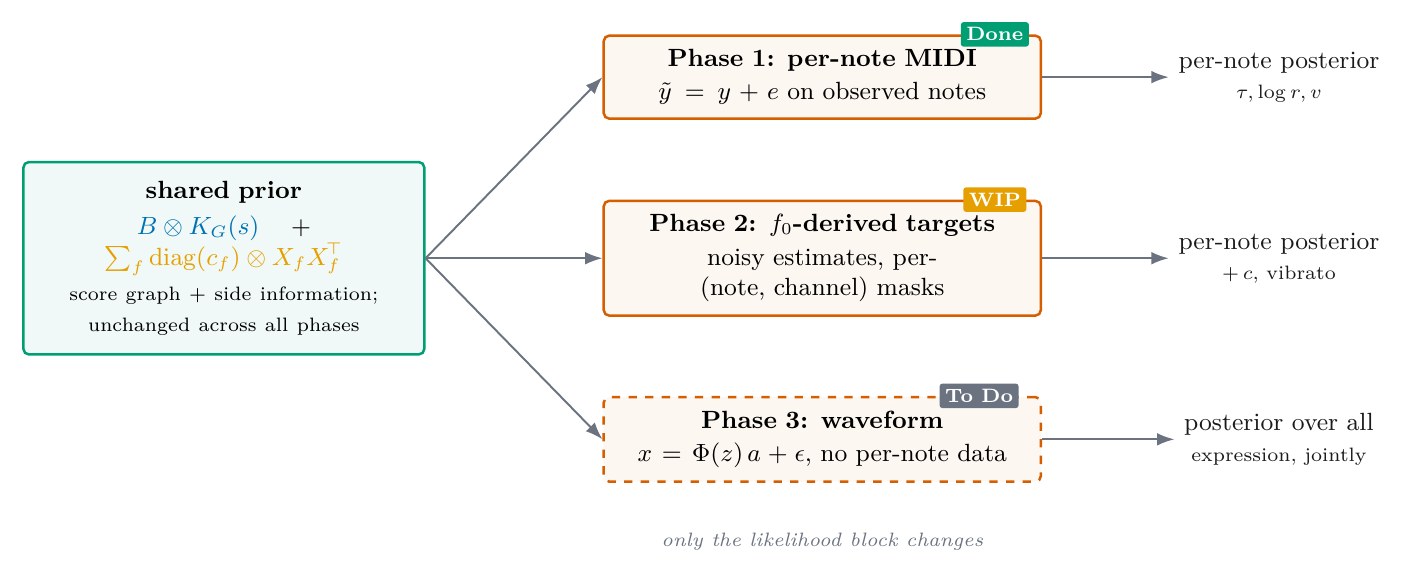
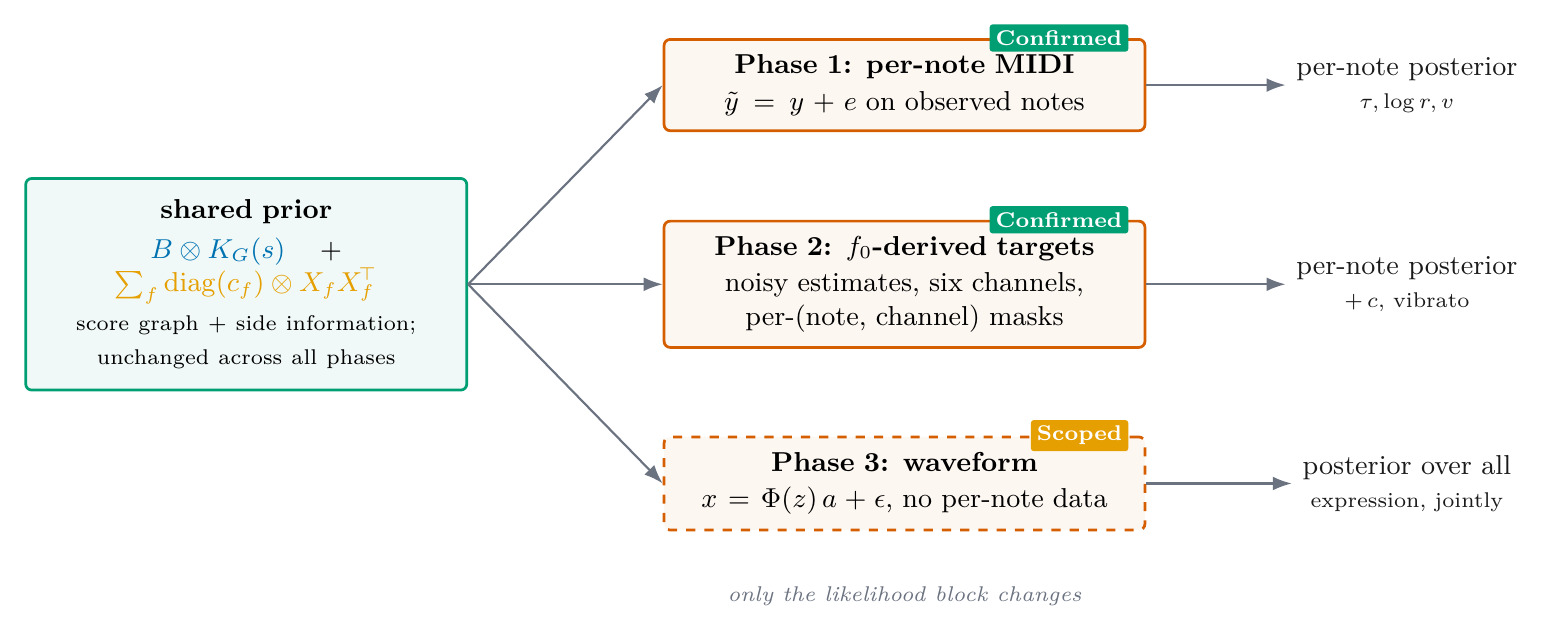
Programme figure: badges updated to the current phase status
Frame 3's figure still wore July's badges (Phase 2 WIP, Phase 3 To Do)
while the deck states Phase 2 confirmed. Now Confirmed / Confirmed /
Scoped, and the Phase-2 block says six channels. Deck rebuilt (24 pp),
PDF copied.

diff --git a/docs/thesis/figures/deck_programme.tex b/docs/thesis/figures/deck_programme.tex
@@ -35,14 +35,14 @@
    $\tilde y = y + e$ on observed notes};
 \node[lik] (l2) at (7.6, 0)
   {\textbf{Phase 2: $f_0$-derived targets}\\[1pt]
-   noisy estimates, per-(note, channel) masks};
+   noisy estimates, six channels,\\ per-(note, channel) masks};
 \node[lik, dashed] (l3) at (7.6, -2.3)
   {\textbf{Phase 3: waveform}\\[1pt]
    $x = \Phi(z)\,a + \epsilon$, no per-note data};
 
-\node[tag, fill=okgreen] at ([xshift=-6mm, yshift=0mm]l1.east |- l1.north)  {Done};
-\node[tag, fill=okamber] at ([xshift=-6mm]l2.east |- l2.north) {WIP};
-\node[tag] at ([xshift=-8mm]l3.east |- l3.north) {To Do};
+\node[tag, fill=okgreen, anchor=east] at ([xshift=-2mm]l1.north east) {Confirmed};
+\node[tag, fill=okgreen, anchor=east] at ([xshift=-2mm]l2.north east) {Confirmed};
+\node[tag, fill=okamber, anchor=east] at ([xshift=-2mm]l3.north east) {Scoped};
 
 \node[outp] (o1) at (13.4, 2.3) {per-note posterior\\ {\scriptsize $\tau, \log r, v$}};
 \node[outp] (o2) at (13.4, 0) {per-note posterior\\ {\scriptsize $+\,c$, vibrato}};
